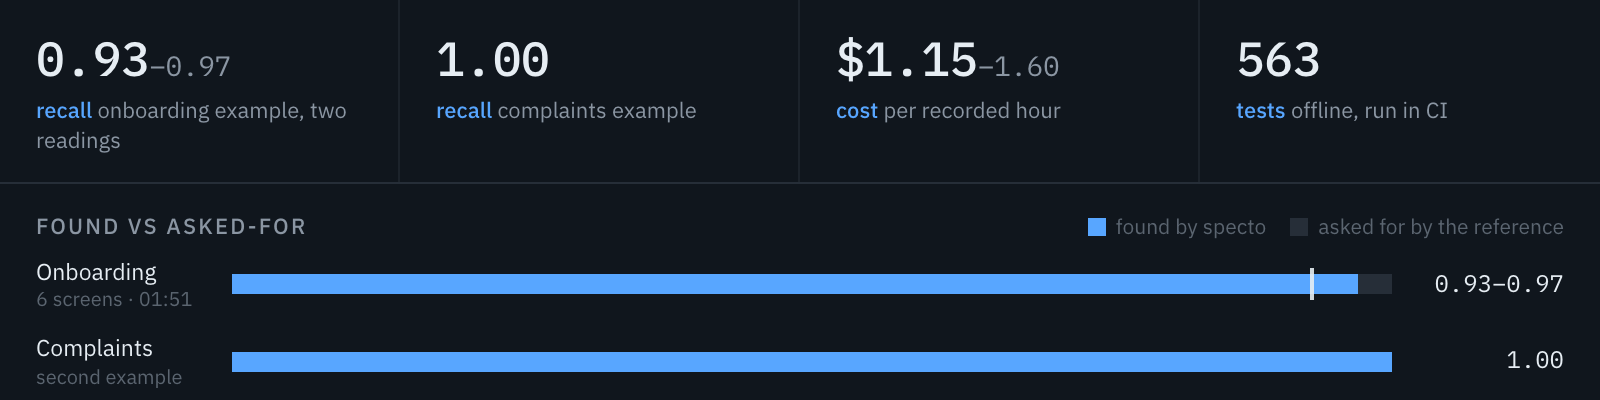
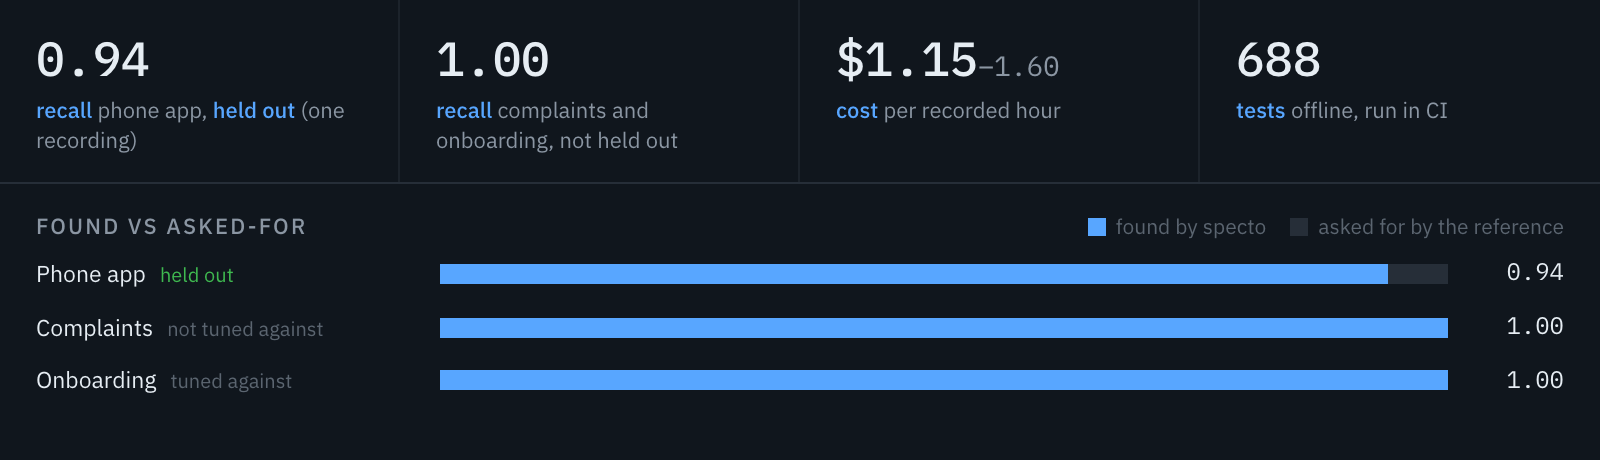
Regenerate the README pictures with the honest scores
make_demo.py now reads the recall figures from examples/*/reference/score.json
and shows the held-out phone-app 0.94 first, then the complaints 1.00 (not
tuned against) and the onboarding 1.00 (tuned against). The counters say
688 tests and v0.7.0. The script lists what it needs (chromium, and a run of
the onboarding example for its frames) and stops with that message when
something is missing. demo.gif (85 frames), dashboard.png, questions.png and
scoreboard.png are rebuilt from the reference reading.

diff --git a/docs/make_demo.py b/docs/make_demo.py
@@ -6,11 +6,20 @@ Writes four files under docs/:
   questions.png   the FINDINGS column on its own, top five ranked questions
   scoreboard.png  the footer counters with the found-vs-asked-for bars
 
+The recall figures are read from examples/*/reference/score.json, never typed in here:
+the phone-app example (held out: no prompt was tuned against it) is shown first, then the
+complaints example (not tuned against) and the onboarding example (tuned against).
+
 Every row on the dashboard is a real row from examples/onboarding/reference/analysis.json,
 every frame is a real keyframe from a run of the example, and every transcript line comes
 from examples/onboarding/walkthrough.vtt. Nothing is invented.
 
-Usage: .venv/bin/python docs/make_demo.py [OUT_DIR]   (OUT_DIR holds frames/ of a run of the example)
+Needs, in this order:
+  1. Playwright with chromium:  .venv/bin/pip install playwright && .venv/bin/playwright install chromium
+  2. A run of the onboarding example that holds its frames:
+       .venv/bin/specto demo --example onboarding --out out/demo-onboarding
+  3. Then:  .venv/bin/python docs/make_demo.py out/demo-onboarding
+     (OUT_DIR defaults to out/demo-onboarding; it must hold frames/frame_0000.jpg to frame_0005.jpg)
 """
 from __future__ import annotations
 
@@ -34,12 +43,22 @@ GIF_W, GIF_H = 800, 500
 FPS = 8
 FRAME_MS = 1000 // FPS
 
-# Facts quoted on the footer. Two readings of the onboarding example, one of complaints.
-RECALL_ONBOARDING = (0.93, 0.97)
-RECALL_COMPLAINTS = 1.00
+
+
+def overall_recall(example: str) -> float:
+    """The overall recall in examples/<example>/reference/score.json, to two places."""
+    score = json.loads((ROOT / "examples" / example / "reference" / "score.json").read_text())
+    return round(score["overall_recall"], 2)
+
+
+# Facts quoted on the footer. Recall comes from the score files; the rest are typed here.
+RECALL_HELD_OUT = overall_recall("deliveries")  # the phone app: no prompt was tuned against it
+RECALL_COMPLAINTS = overall_recall("claims")  # not tuned against; a regression check on the prompt change
+RECALL_ONBOARDING = overall_recall("onboarding")  # tuned against: the prompt was changed after an earlier 0.93
 COST_PER_HOUR = (1.15, 1.60)
-TESTS = 563
+TESTS = 688
 MODEL_CALLS = 4
+VERSION = "v0.7.0"
 
 CATEGORY_WEIGHT = {
     "validation rule": 0,
@@ -214,7 +233,7 @@ body{width:1280px;height:800px;overflow:hidden;display:flex;flex-direction:colum
 .ac .sep{height:1px;background:var(--line-soft);margin:6px 0}
 
 /* footer */
-.footer{height:106px;flex:none;border-top:1px solid var(--line);background:var(--panel);display:grid;grid-template-columns:640px 640px}
+.footer{height:118px;flex:none;border-top:1px solid var(--line);background:var(--panel);display:grid;grid-template-columns:640px 640px}
 .counters{display:grid;grid-template-columns:repeat(4,1fr);border-right:1px solid var(--line)}
 .ctr{padding:16px 18px 0;border-right:1px solid var(--line-soft)}
 .ctr:last-child{border-right:0}
@@ -228,9 +247,10 @@ body{width:1280px;height:800px;overflow:hidden;display:flex;flex-direction:colum
 .bars .lb .leg i{display:inline-block;width:9px;height:9px;margin-right:5px;vertical-align:-1px}
 .bars .lb .leg .a{background:var(--accent)}
 .bars .lb .leg .b{background:var(--line)}
-.brow{display:grid;grid-template-columns:86px 1fr 74px;gap:12px;align-items:center;margin-bottom:6px;font-size:11.5px}
-.brow .name{color:var(--ink)}
-.brow .name small{display:block;color:var(--faint);font-size:10px;line-height:1.2}
+.brow{display:grid;grid-template-columns:190px 1fr 46px;gap:12px;align-items:center;margin-bottom:5px;font-size:11.5px}
+.brow .name{color:var(--ink);white-space:nowrap}
+.brow .name small{display:inline;margin-left:7px;color:var(--faint);font-size:10px}
+.brow .name small.ho{color:var(--green)}
 .brow .track{height:10px;background:var(--line);position:relative}
 .brow .fill{position:absolute;left:0;top:0;bottom:0;background:var(--accent)}
 .brow .tick{position:absolute;top:-3px;bottom:-3px;width:2px;background:var(--ink);opacity:.9}
@@ -241,9 +261,9 @@ body.focus-findings .main{grid-template-columns:600px}
 body.focus-findings .col.left,body.focus-findings .col.right,body.focus-findings .top,body.focus-findings .status,body.focus-findings .footer{display:none}
 body.focus-findings .col{border:1px solid var(--line)}
 body.focus-findings .card .txt{-webkit-line-clamp:4}
-body.scoreboard{width:800px;height:200px}
+body.scoreboard{width:800px;height:230px}
 body.scoreboard .top,body.scoreboard .status,body.scoreboard .main{display:none}
-body.scoreboard .footer{height:200px;grid-template-columns:800px;grid-template-rows:92px 108px;border-top:0}
+body.scoreboard .footer{height:230px;grid-template-columns:800px;grid-template-rows:92px 138px;border-top:0}
 body.scoreboard .counters{border-right:0;border-bottom:1px solid var(--line)}
 body.scoreboard .bars{padding-top:14px}
 body.scoreboard .brow{margin-bottom:10px}
@@ -278,7 +298,7 @@ def page_html(analysis: dict, cues: list[dict], frames_b64: list[str]) -> str:
             for q in qs
         ],
         "facts": {
-            "recall_on": RECALL_ONBOARDING, "recall_co": RECALL_COMPLAINTS, "cost": COST_PER_HOUR, "tests": TESTS,
+            "recall_ho": RECALL_HELD_OUT, "recall_co": RECALL_COMPLAINTS, "recall_on": RECALL_ONBOARDING, "cost": COST_PER_HOUR, "tests": TESTS,
             "calls": MODEL_CALLS, "nreq": len(reqs), "nq": len(qs), "duration": mmss(math.ceil(cues[-1]["end"])),
         },
     }
@@ -362,15 +382,16 @@ function setState(s){
   // footer counters, t in 0..1
   const t = s.t01;
   const F = D.facts;
-  $('#c1').innerHTML = `${fmt2(F.recall_on[0]*t)}<small>–${fmt2(F.recall_on[1]*t)}</small>`;
+  $('#c1').textContent = fmt2(F.recall_ho*t);
   $('#c2').textContent = fmt2(F.recall_co*t);
   $('#c3').innerHTML = `$${fmt2(F.cost[0]*t)}<small>–${fmt2(F.cost[1]*t)}</small>`;
   $('#c4').textContent = String(Math.round(F.tests*t));
-  $('#b1').style.width = (100*F.recall_on[1]*t).toFixed(1) + '%';
-  $('#b1t').style.left = (100*F.recall_on[0]*t).toFixed(1) + '%';
-  $('#b1v').textContent = `${fmt2(F.recall_on[0]*t)}–${fmt2(F.recall_on[1]*t)}`;
+  $('#b1').style.width = (100*F.recall_ho*t).toFixed(1) + '%';
+  $('#b1v').textContent = fmt2(F.recall_ho*t);
   $('#b2').style.width = (100*F.recall_co*t).toFixed(1) + '%';
   $('#b2v').textContent = fmt2(F.recall_co*t);
+  $('#b3').style.width = (100*F.recall_on*t).toFixed(1) + '%';
+  $('#b3v').textContent = fmt2(F.recall_on*t);
 }
 window.setState = setState;
 build();
@@ -380,7 +401,7 @@ build();
 <link rel="stylesheet" href="https://fonts.googleapis.com/css2?family=IBM+Plex+Sans:wght@400;500;600&family=IBM+Plex+Mono:wght@400;500&display=swap">
 <style>{CSS}</style></head><body>
 <div class="top">
-  <div class="brand">specto <small>v0.6.0</small></div>
+  <div class="brand">specto <small>{VERSION}</small></div>
   <div class="rec"><i></i><b>walkthrough.mp4</b> · <span id="rec-dur"></span></div>
   <div class="stages">
     <div class="stage" id="st-frames"><span class="dot"></span>Frames</div><div class="link" id="lk-1"></div>
@@ -407,15 +428,16 @@ build();
 </div>
 <div class="footer">
   <div class="counters">
-    <div class="ctr"><div class="n" id="c1"></div><div class="l"><b>recall</b> onboarding example, two readings</div></div>
-    <div class="ctr"><div class="n" id="c2"></div><div class="l"><b>recall</b> complaints example</div></div>
+    <div class="ctr"><div class="n" id="c1"></div><div class="l"><b>recall</b> phone app, <b>held out</b> (one recording)</div></div>
+    <div class="ctr"><div class="n" id="c2"></div><div class="l"><b>recall</b> complaints and onboarding, not held out</div></div>
     <div class="ctr"><div class="n" id="c3"></div><div class="l"><b>cost</b> per recorded hour</div></div>
     <div class="ctr"><div class="n" id="c4"></div><div class="l"><b>tests</b> offline, run in CI</div></div>
   </div>
   <div class="bars">
     <div class="lb">Found vs asked-for <span class="leg"><span><i class="a"></i>found by specto</span><span><i class="b"></i>asked for by the reference</span></span></div>
-    <div class="brow"><div class="name">Onboarding<small>6 screens · 01:51</small></div><div class="track"><div class="fill" id="b1"></div><div class="tick" id="b1t"></div></div><div class="v" id="b1v"></div></div>
-    <div class="brow"><div class="name">Complaints<small>second example</small></div><div class="track"><div class="fill" id="b2"></div></div><div class="v" id="b2v"></div></div>
+    <div class="brow"><div class="name">Phone app<small class="ho">held out</small></div><div class="track"><div class="fill" id="b1"></div></div><div class="v" id="b1v"></div></div>
+    <div class="brow"><div class="name">Complaints<small>not tuned against</small></div><div class="track"><div class="fill" id="b2"></div></div><div class="v" id="b2v"></div></div>
+    <div class="brow"><div class="name">Onboarding<small>tuned against</small></div><div class="track"><div class="fill" id="b3"></div></div><div class="v" id="b3v"></div></div>
   </div>
 </div>
 <script>window.DATA = {json.dumps(data)};</script>
@@ -494,6 +516,24 @@ def timeline(analysis: dict, cues: list[dict]) -> list[dict]:
     return [dict(s, tick=i) for i, s in enumerate(states)]
 
 
+def check_inputs(out_dir: Path) -> bool:
+    """Say exactly what is missing and how to get it; True when the script can run."""
+    missing = [f"frames/frame_{i:04d}.jpg" for i in range(6) if not (out_dir / "frames" / f"frame_{i:04d}.jpg").exists()]
+    problems = []
+    if missing:
+        problems.append(
+            f"{out_dir} has no {', '.join(missing[:2])}{' ...' if len(missing) > 2 else ''}. "
+            f"Make them with:  .venv/bin/specto demo --example onboarding --out {out_dir}"
+        )
+    try:
+        import playwright  # noqa: F401
+    except ImportError:
+        problems.append("Playwright is not installed:  .venv/bin/pip install playwright && .venv/bin/playwright install chromium")
+    for problem in problems:
+        print(f"make_demo: {problem}", file=sys.stderr)
+    return not problems
+
+
 def render(out_dir: Path) -> None:
     from playwright.sync_api import sync_playwright
 
@@ -534,7 +574,7 @@ def render(out_dir: Path) -> None:
         # the scoreboard: counters plus the found-vs-asked-for bars
         page.evaluate("document.body.classList.add('scoreboard')")
         page.evaluate("s => window.setState(s)", final)
-        page.screenshot(path=str(DOCS / "scoreboard.png"), clip={"x": 0, "y": 0, "width": 800, "height": 200})
+        page.screenshot(path=str(DOCS / "scoreboard.png"), clip={"x": 0, "y": 0, "width": 800, "height": 230})
         browser.close()
 
     for name in ("demo.gif", "dashboard.png", "questions.png", "scoreboard.png"):
@@ -558,4 +598,7 @@ def write_gif(frames: list[Image.Image], target: Path) -> None:
 
 
 if __name__ == "__main__":
-    render(Path(sys.argv[1]) if len(sys.argv) > 1 else ROOT / "out" / "real2")
+    target = Path(sys.argv[1]) if len(sys.argv) > 1 else ROOT / "out" / "demo-onboarding"
+    if not check_inputs(target):
+        sys.exit(2)
+    render(target)
